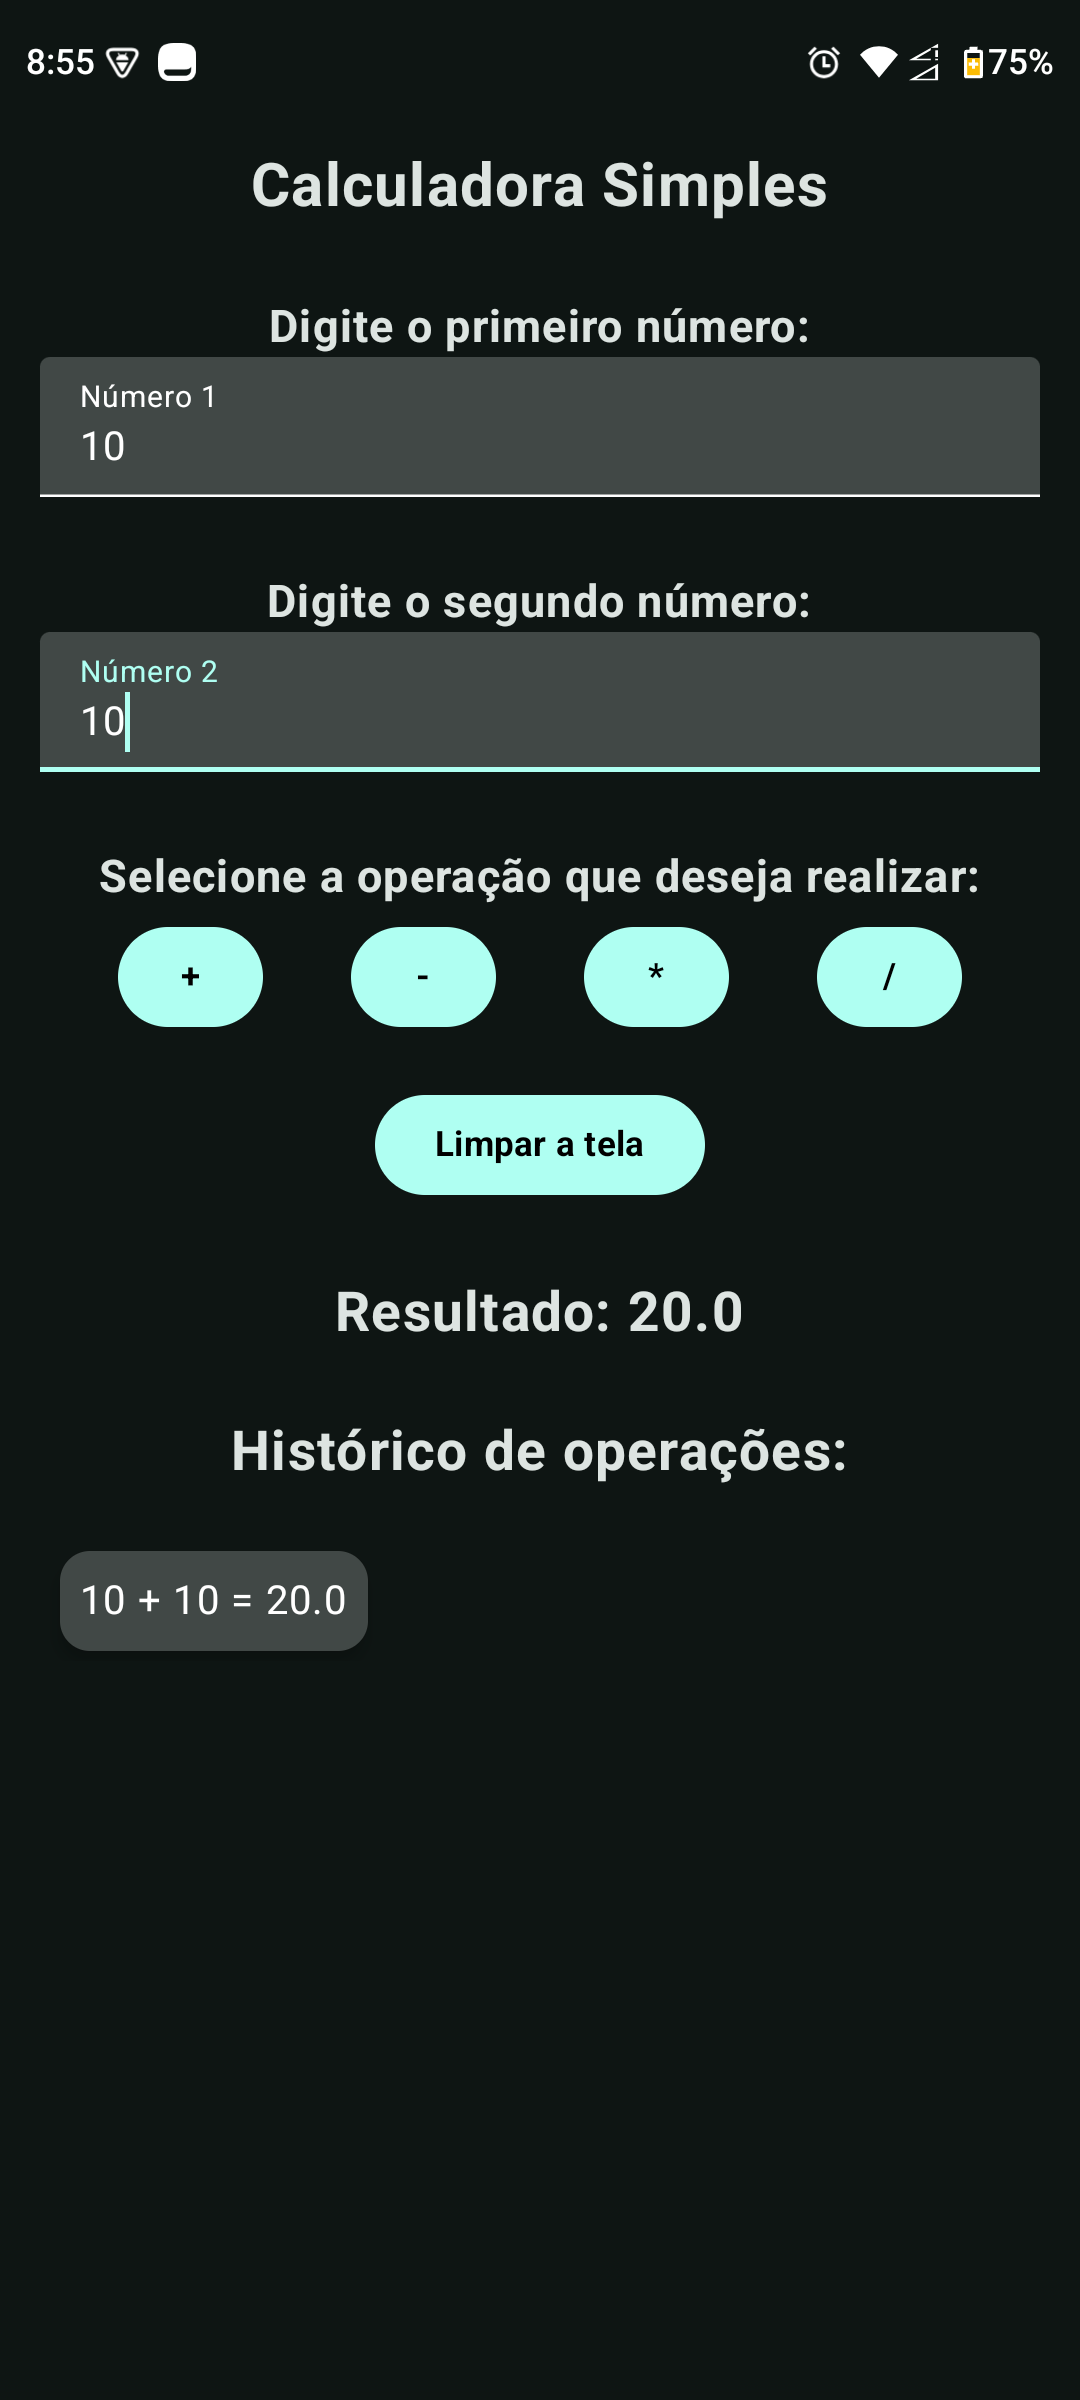
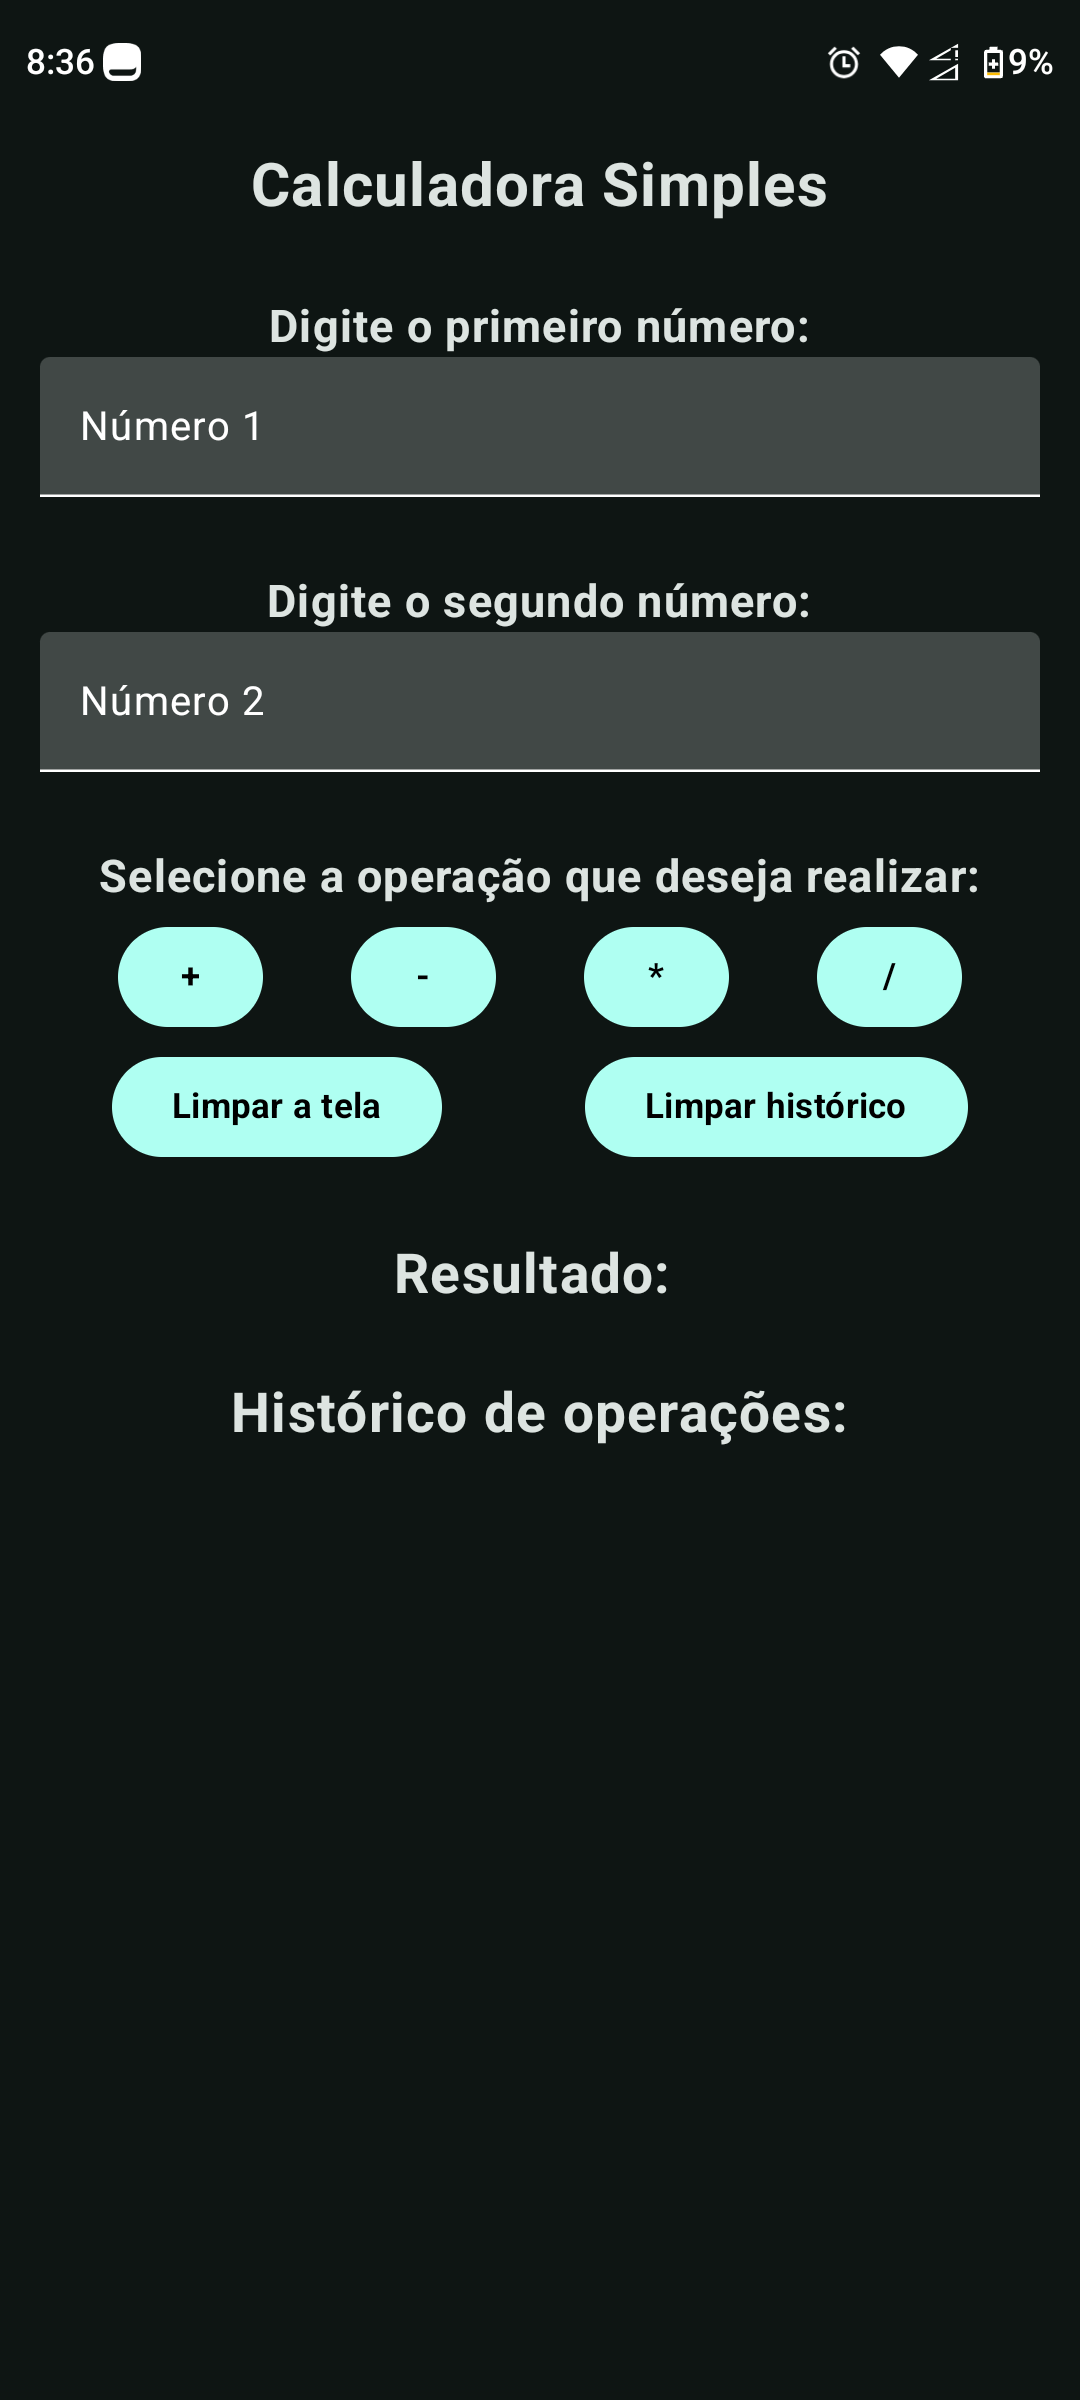
FEATURE: Adicionando botão para limpar o historico e atualização da imagem de preview

diff --git a/CalculadoraSimples/app/src/main/java/com/example/calculadorasimples/MainActivity.kt b/CalculadoraSimples/app/src/main/java/com/example/calculadorasimples/MainActivity.kt
@@ -30,6 +30,7 @@ import androidx.compose.runtime.setValue
 import androidx.compose.ui.Alignment
 import androidx.compose.ui.Modifier
 import androidx.compose.ui.text.font.FontWeight
+import androidx.compose.ui.text.input.ImeAction
 import androidx.compose.ui.text.input.KeyboardType
 import androidx.compose.ui.tooling.preview.Preview
 import androidx.compose.ui.unit.dp
@@ -100,7 +101,8 @@ fun CalculadoraScreen() {
             value = numero1,
             onValueChange = { numero1 = it },
             label = { Text("Número 1") },
-            keyboardOptions = KeyboardOptions(keyboardType = KeyboardType.Number),
+            keyboardOptions = KeyboardOptions.Default.copy(keyboardType = KeyboardType.Number,
+                imeAction = ImeAction.Next),
             modifier = Modifier.fillMaxWidth()
         )
         Spacer(modifier = Modifier.height(30.dp))
@@ -111,7 +113,8 @@ fun CalculadoraScreen() {
             value = numero2,
             onValueChange = { numero2 = it },
             label = { Text("Número 2") },
-            keyboardOptions = KeyboardOptions(keyboardType = KeyboardType.Number),
+            keyboardOptions = KeyboardOptions.Default.copy(keyboardType = KeyboardType.Number,
+                imeAction = ImeAction.Done),
             modifier = Modifier.fillMaxWidth()
         )
         Spacer(modifier = Modifier.height(30.dp))
@@ -135,8 +138,23 @@ fun CalculadoraScreen() {
                 onClick = { operacao = "/"; calcular(); historico.add(0,"$numero1 / $numero2 = $resultado") }) { Text("/",
                 fontWeight = FontWeight.Bold) }
         }
-        Spacer(modifier = Modifier.height(15.dp))
-        Button(onClick = { numero1 = ""; numero2 = ""; operacao = ""; resultado = ""; }) { Text("Limpar a tela", fontWeight = FontWeight.Bold) }
+        Row ( modifier = Modifier.fillMaxWidth(),
+            horizontalArrangement = Arrangement.SpaceEvenly) {
+
+            Button(onClick = { numero1 = ""; numero2 = ""; operacao = ""; resultado = ""; }) {
+                Text(
+                    "Limpar a tela",
+                    fontWeight = FontWeight.Bold
+                )
+            }
+            Spacer(modifier = Modifier.height(15.dp))
+            Button(onClick = { historico.clear();}) {
+                Text(
+                    "Limpar histórico",
+                    fontWeight = FontWeight.Bold
+                )
+            }
+        }
         Spacer(modifier = Modifier.height(30.dp))
         Text(
             text = "Resultado: $resultado",
@@ -150,7 +168,9 @@ fun CalculadoraScreen() {
             fontWeight = FontWeight.Bold
         )
         Spacer(modifier = Modifier.height(15.dp))
-        LazyColumn(modifier = Modifier.fillMaxWidth().padding(8.dp))  {
+        LazyColumn(modifier = Modifier
+            .fillMaxWidth()
+            .padding(8.dp))  {
             items(historico.size) {
                 Card(modifier = Modifier.padding(vertical = 4.dp),
                     elevation = CardDefaults.cardElevation(4.dp))   { Text(text = historico[it],
